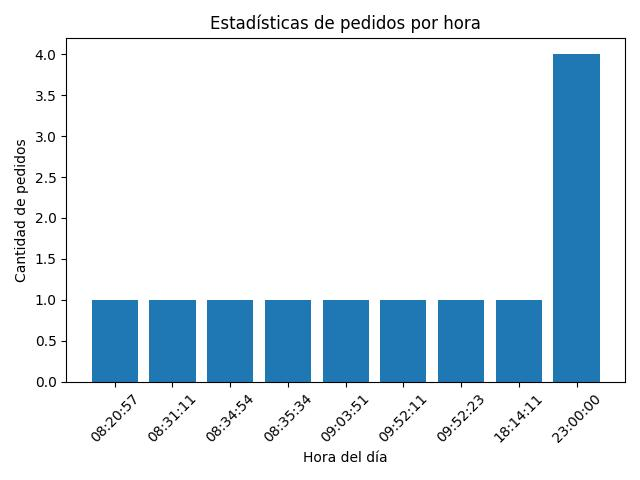
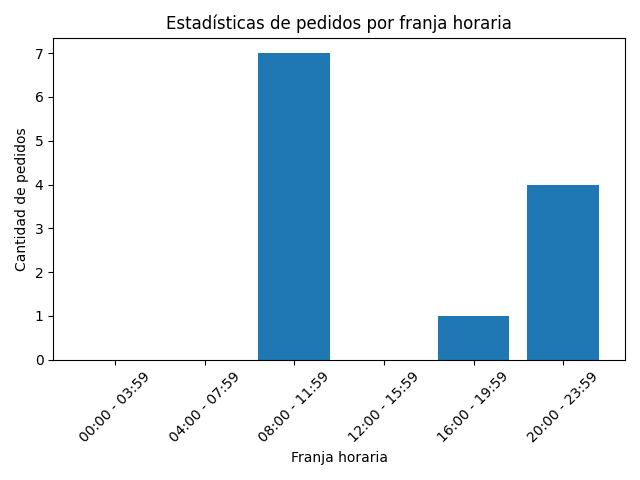
cambio grafico

diff --git a/node/graficos.py b/node/graficos.py
@@ -2,23 +2,54 @@ import json
 import pandas as pd
 import matplotlib.pyplot as plt
 from matplotlib import rcParams
+from datetime import datetime
 from collections import Counter
 
 
 with open('log.json', 'r') as file:
     data = json.load(file)
 
-horas = [pedido['FechaPedido'].split('T')[1].split('.')[0] for pedido in data]
+# Función para obtener la franja horaria a partir de una hora dada
+def get_time_slot(hour):
+    hour = int(hour.split(':')[0])
+    if 0 <= hour < 4:
+        return '00:00 - 03:59'
+    elif 4 <= hour < 8:
+        return '04:00 - 07:59'
+    elif 8 <= hour < 12:
+        return '08:00 - 11:59'
+    elif 12 <= hour < 16:
+        return '12:00 - 15:59'
+    elif 16 <= hour < 20:
+        return '16:00 - 19:59'
+    else:
+        return '20:00 - 23:59'
 
-frecuencia_horas = dict(Counter(horas))
+# Crear un diccionario para contabilizar las franjas horarias
+time_slots = {
+    '00:00 - 03:59': 0,
+    '04:00 - 07:59': 0,
+    '08:00 - 11:59': 0,
+    '12:00 - 15:59': 0,
+    '16:00 - 19:59': 0,
+    '20:00 - 23:59': 0
+}
 
-horas, frecuencias = zip(*sorted(frecuencia_horas.items()))
+for pedido in data:
+    fecha_pedido = datetime.fromisoformat(pedido['FechaPedido'])
+    hora = fecha_pedido.strftime('%H:%M')
+    franja_horaria = get_time_slot(hora)
+    time_slots[franja_horaria] += 1
 
-plt.bar(horas, frecuencias)
-plt.xlabel('Hora del día')
+# Extraer franjas horarias y frecuencias
+franjas_horarias, frecuencias = zip(*time_slots.items())
+
+# Crear el gráfico de barras
+plt.bar(franjas_horarias, frecuencias)
+plt.xlabel('Franja horaria')
 plt.ylabel('Cantidad de pedidos')
-plt.title('Estadísticas de pedidos por hora')
-plt.xticks(rotation=45)  # Rotar las etiquetas del eje x para una mejor legibilidad
+plt.title('Estadísticas de pedidos por franja horaria')
 
+plt.xticks(rotation=45)
 plt.tight_layout()
 plt.savefig('./estadisticas.jpeg')
